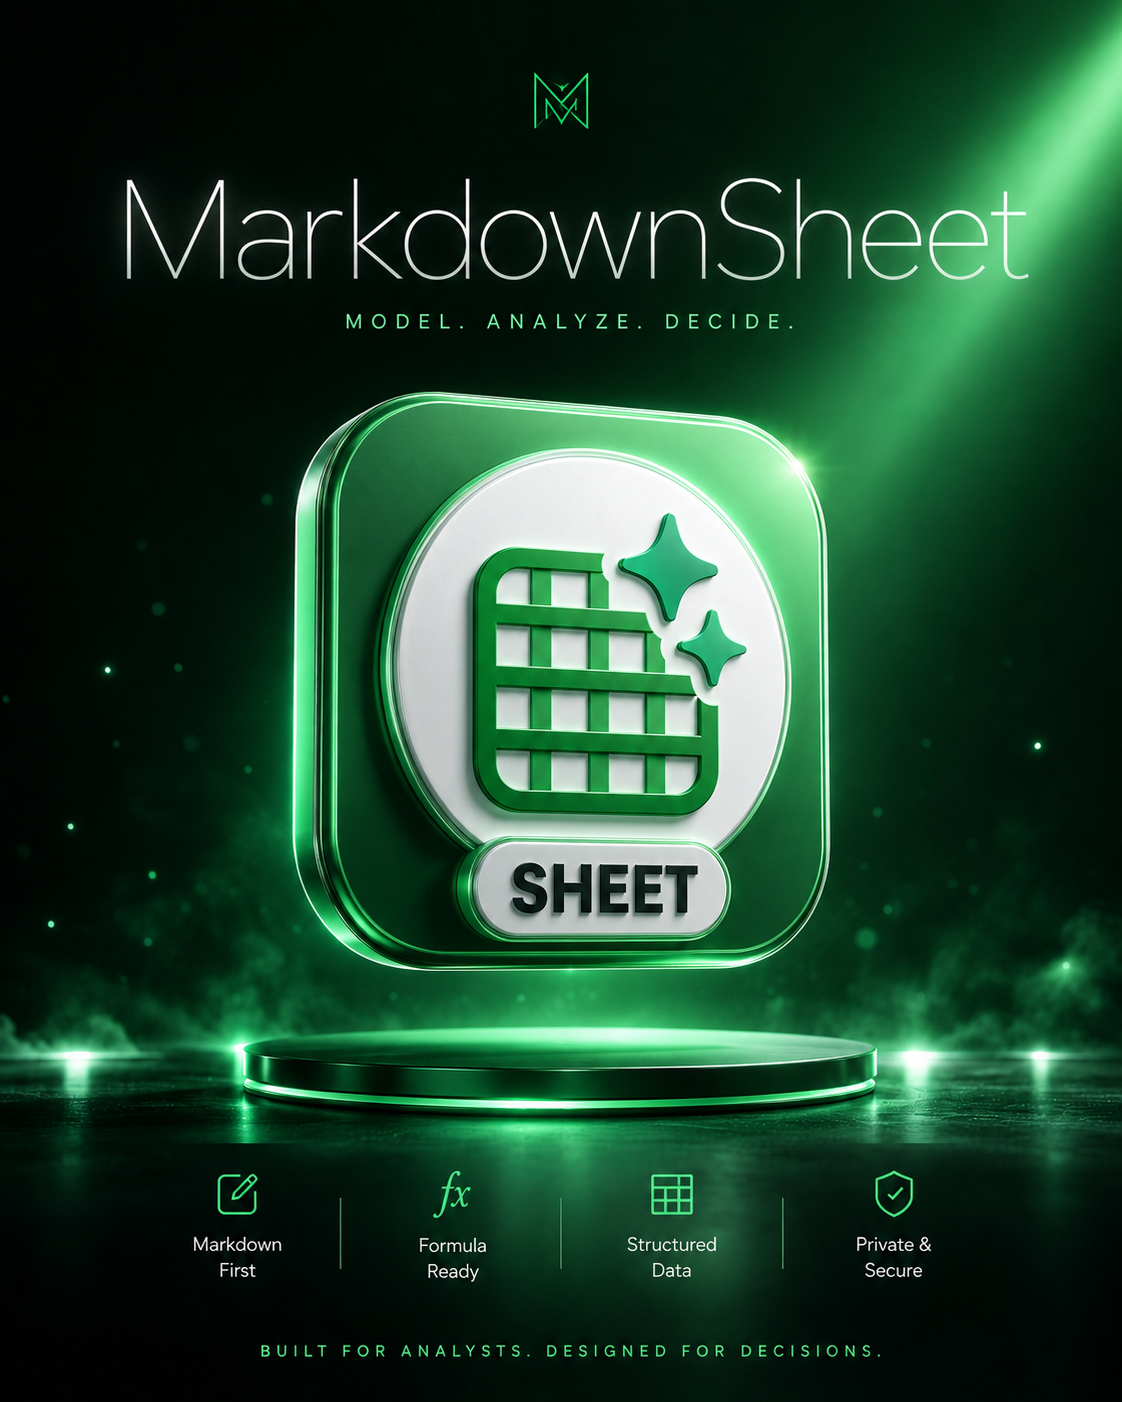
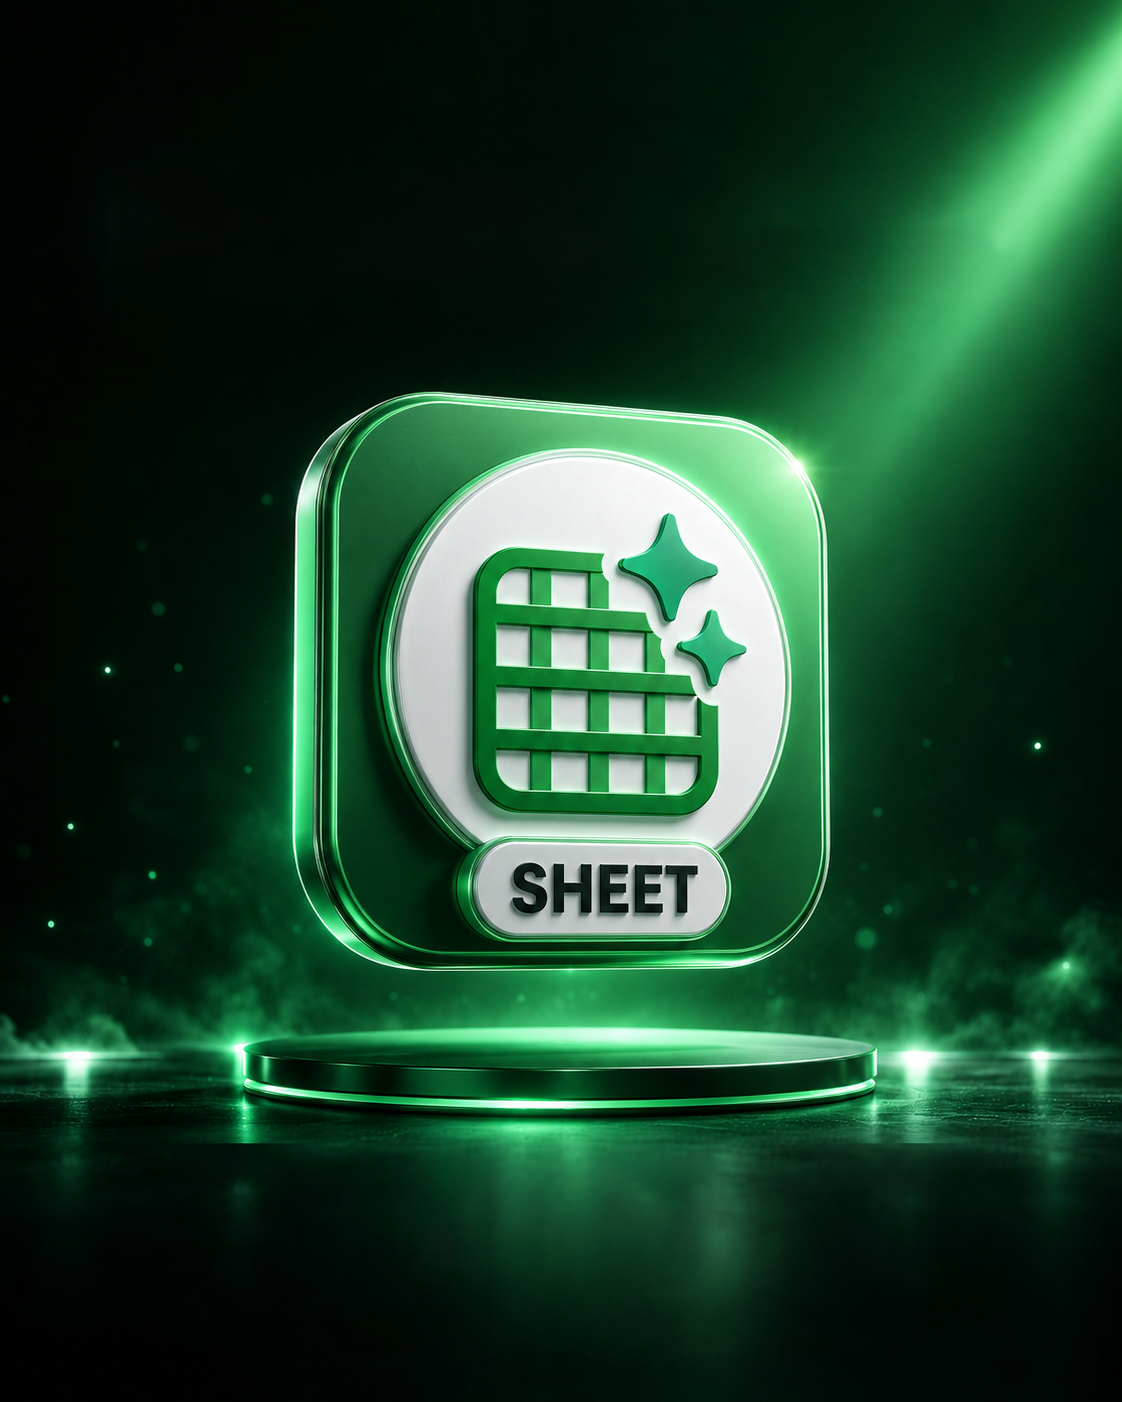
update images

diff --git a/markdownintro/slides.md b/markdownintro/slides.md
@@ -1,6 +1,9 @@
 ---
 theme: seriph
 background: /images/background.png
+layout: image
+image: /images/background.png
+backgroundSize: contain
 title: "MarkdownOffice: LLM-first, markdown-native document agent cho enterprise monorepo"
 info: |
   ## MarkdownOffice LLM-first, markdown-native document operating system cho enterprise monorepo.
@@ -25,25 +28,6 @@ fonts:
   local: 'Segoe UI'
 mdc: true
 ---
-
-<!-- # MarkdownOffice -->
-
-## MarkdownOffice: a LLM-first, markdown-native document agent for enterprise monorepo
-
-<!-- <div class="flex flex-col items-center justify-center h-full gap-3">
-LLM-first, markdown-native document agent for enterprise monorepo
-</div> -->
-
-<!-- <div class="mt-6 text-lg opacity-80 max-w-3xl mx-auto">
-Biến tài liệu doanh nghiệp thành <b>structured · versioned · auditable · machine-readable</b> knowledge - để con người và AI Agent cùng tạo, review, version và tự động hóa.
-</div> -->
-
-<!-- <div class="mt-10 flex justify-center gap-3 text-sm">
-  <span class="px-3 py-1 rounded-full bg-white/10 border border-white/20">Markdown-native</span>
-  <span class="px-3 py-1 rounded-full bg-white/10 border border-white/20">LLM-first</span>
-  <span class="px-3 py-1 rounded-full bg-white/10 border border-white/20">Git-like versioning</span>
-  <span class="px-3 py-1 rounded-full bg-white/10 border border-white/20">Agent-collaborative</span>
-</div> -->
 
 <!--
 MarkdownOffice không phải một Markdown editor mới. Đây là nỗ lực xây lại nền tảng tài liệu doanh nghiệp cho thời đại human + AI Agent.

diff --git a/markdownintro/slides/02-markdownoffice.md b/markdownintro/slides/02-markdownoffice.md
@@ -124,7 +124,7 @@ status: active
 
 <div class="flex flex-col items-center justify-center h-full gap-3">
 <!-- <img src="/images/MarkdownDoc.jpg" class="max-h-[230px] w-auto rounded-lg shadow-xl" alt="MarkdownDoc" /> -->
-<img src="/images/Doc%20Poster.png" class="max-h-[160px] w-auto rounded-lg shadow-lg" alt="Doc Poster" />
+<img src="/images/Doc%20Poster.png" class="w-auto rounded-lg shadow-lg" alt="Doc Poster" />
 </div>
 
 <!--
@@ -163,7 +163,7 @@ Không clone toàn bộ Excel ngay. Bắt đầu từ <b>workflow data</b>: stat
 
 <div class="flex flex-col items-center justify-center h-full gap-3">
 <!-- <img src="/images/MarkdownSheet.png" class="max-h-[230px] w-auto rounded-lg shadow-xl" alt="MarkdownSheet" /> -->
-<img src="/images/Sheet%20Poster.png" class="max-h-[160px] w-auto rounded-lg shadow-lg" alt="Sheet Poster" />
+<img src="/images/Sheet%20Poster.png" class="w-auto rounded-lg shadow-lg" alt="Sheet Poster" />
 </div>
 
 <!--
@@ -196,7 +196,7 @@ Deck được <b>generate từ report + sheet + document graph</b> - không còn
 
 <div class="flex flex-col items-center justify-center h-full gap-3">
 <!-- <img src="/images/MarkdownSlide.png" class="max-h-[230px] w-auto rounded-lg shadow-xl" alt="MarkdownSlide" /> -->
-<img src="/images/Slide%20Poster.png" class="max-h-[160px] w-auto rounded-lg shadow-lg" alt="Slide Poster" />
+<img src="/images/Slide%20Poster.png" class="w-auto rounded-lg shadow-lg" alt="Slide Poster" />
 </div>
 
 <!--